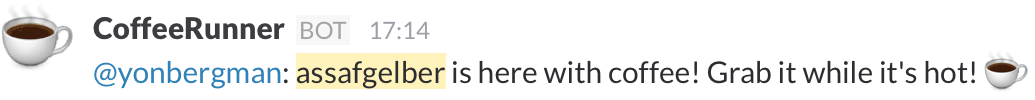
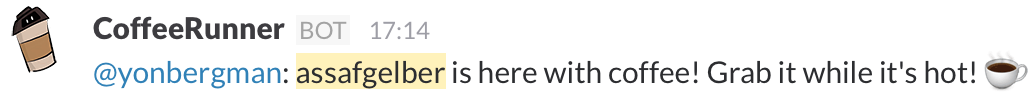
New images + styling

Changed region(s): [[0.0, 0.06, 0.0928, 0.72]]

diff --git a/index.html b/index.html
@@ -2,13 +2,14 @@
 <html>
 <head>
   <meta charset="UTF-8">
+  <meta name="viewport" content="width=device-width, initial-scale=1">
   <title>/coffee - Team collaboration where you need it most</title>
-  <link href='https://fonts.googleapis.com/css?family=Open+Sans' rel='stylesheet' type='text/css'>
+  <link href="https://fonts.googleapis.com/css?family=Open+Sans" rel="stylesheet" type="text/css">
   <link rel="stylesheet" type="text/css" href="style.css">
 </head>
 <body>
-  <header>
-    <div class="emojis">☕🏃</div>
+  <header class="colored">
+    <img class="coffee" src="images/coffee.png" />
     <h1>/coffee</h1>
     <p>Team collaboration where you need it most.</p>
     <a class="install-button" href="https://slack.com/oauth/authorize?scope=commands&client_id=3846743657.17086250725"><img alt="Add to Slack" height="40" width="139" src="https://platform.slack-edge.com/img/add_to_slack.png" srcset="https://platform.slack-edge.com/img/add_to_slack.png 1x, https://platform.slack-edge.com/img/add_to_slack@2x.png 2x"></a>
@@ -34,7 +35,7 @@
       <a class="install-button" href="https://slack.com/oauth/authorize?scope=commands&client_id=3846743657.17086250725"><img alt="Add to Slack" height="40" width="139" src="https://platform.slack-edge.com/img/add_to_slack.png" srcset="https://platform.slack-edge.com/img/add_to_slack.png 1x, https://platform.slack-edge.com/img/add_to_slack@2x.png 2x"></a>
     </div>
   </main>
-  <footer>
+  <footer class="colored">
     <p>Read more and contribute <a href="https://github.com/agelber/slash-coffee">Github</a></p>
     <p>Built by <a href="https://twitter.com/assafgelber">@assafgelber</a></p>
   </footer>

diff --git a/style.css b/style.css
@@ -24,14 +24,18 @@ body {
   padding-top: 2rem;
 }
 
+.colored {
+  background-image: linear-gradient(to bottom right, #ffca34 0%, #ffb32c 100%);
+  background-color: #ffb32c;
+}
+
 header {
   padding: 3rem;
-  background-color: #E8C480;
   text-align: center;
 }
 
-header .emojis {
-  font-size: 3rem;
+header .coffee {
+  width: 16rem;
   margin-bottom: 1rem;
 }
 
@@ -60,12 +64,13 @@ main h2 {
 main .message {
   margin-bottom: 1.5rem;
   padding: 0.7rem;
-  border: 2px solid #E0E0E0;
+  border: 2px solid #e0e0e0;
   border-radius: 6px;
 }
 
 main .response {
   margin-bottom: 3rem;
+  max-width: 100%;
 }
 
 main .response.single-line {
@@ -76,13 +81,19 @@ main .response.double-line {
   height: 70px;
 }
 
+@media (max-width: 600px) {
+  main .response.single-line,
+  main .response.double-line {
+    height: auto;
+  }
+}
+
 main .installation {
   text-align: center
 }
 
 footer {
   padding: 2.5rem;
-  background-color: #E8C480;
   text-align: center;
 }
 
